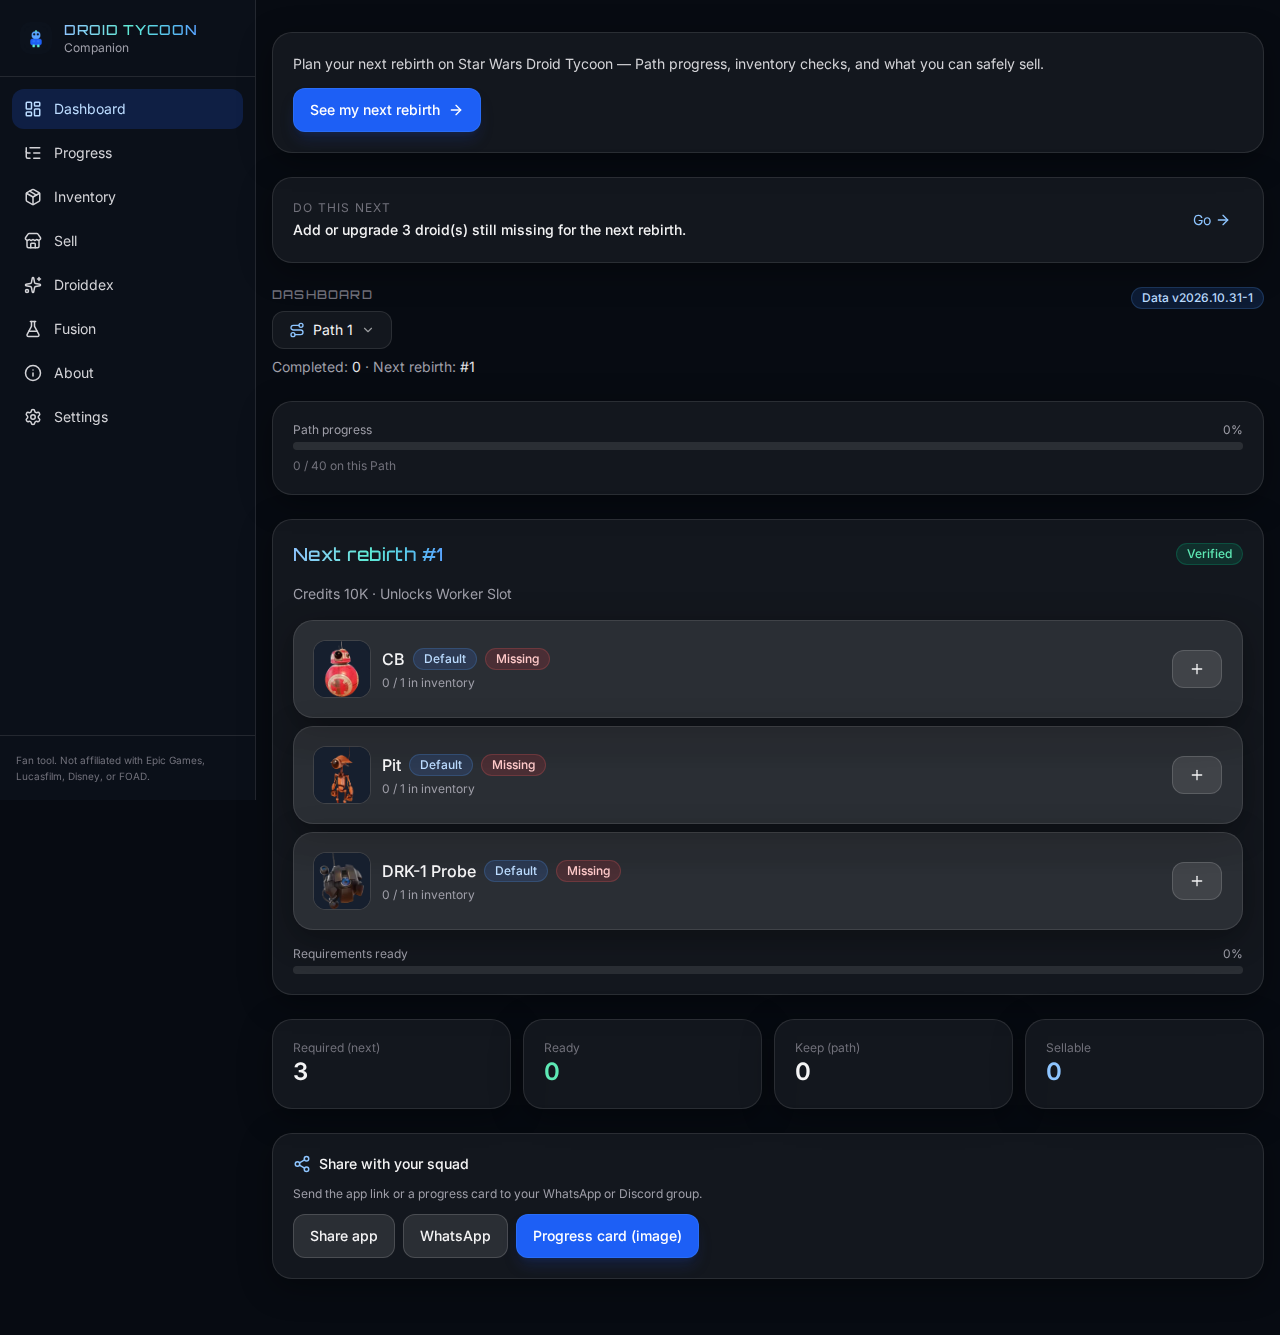
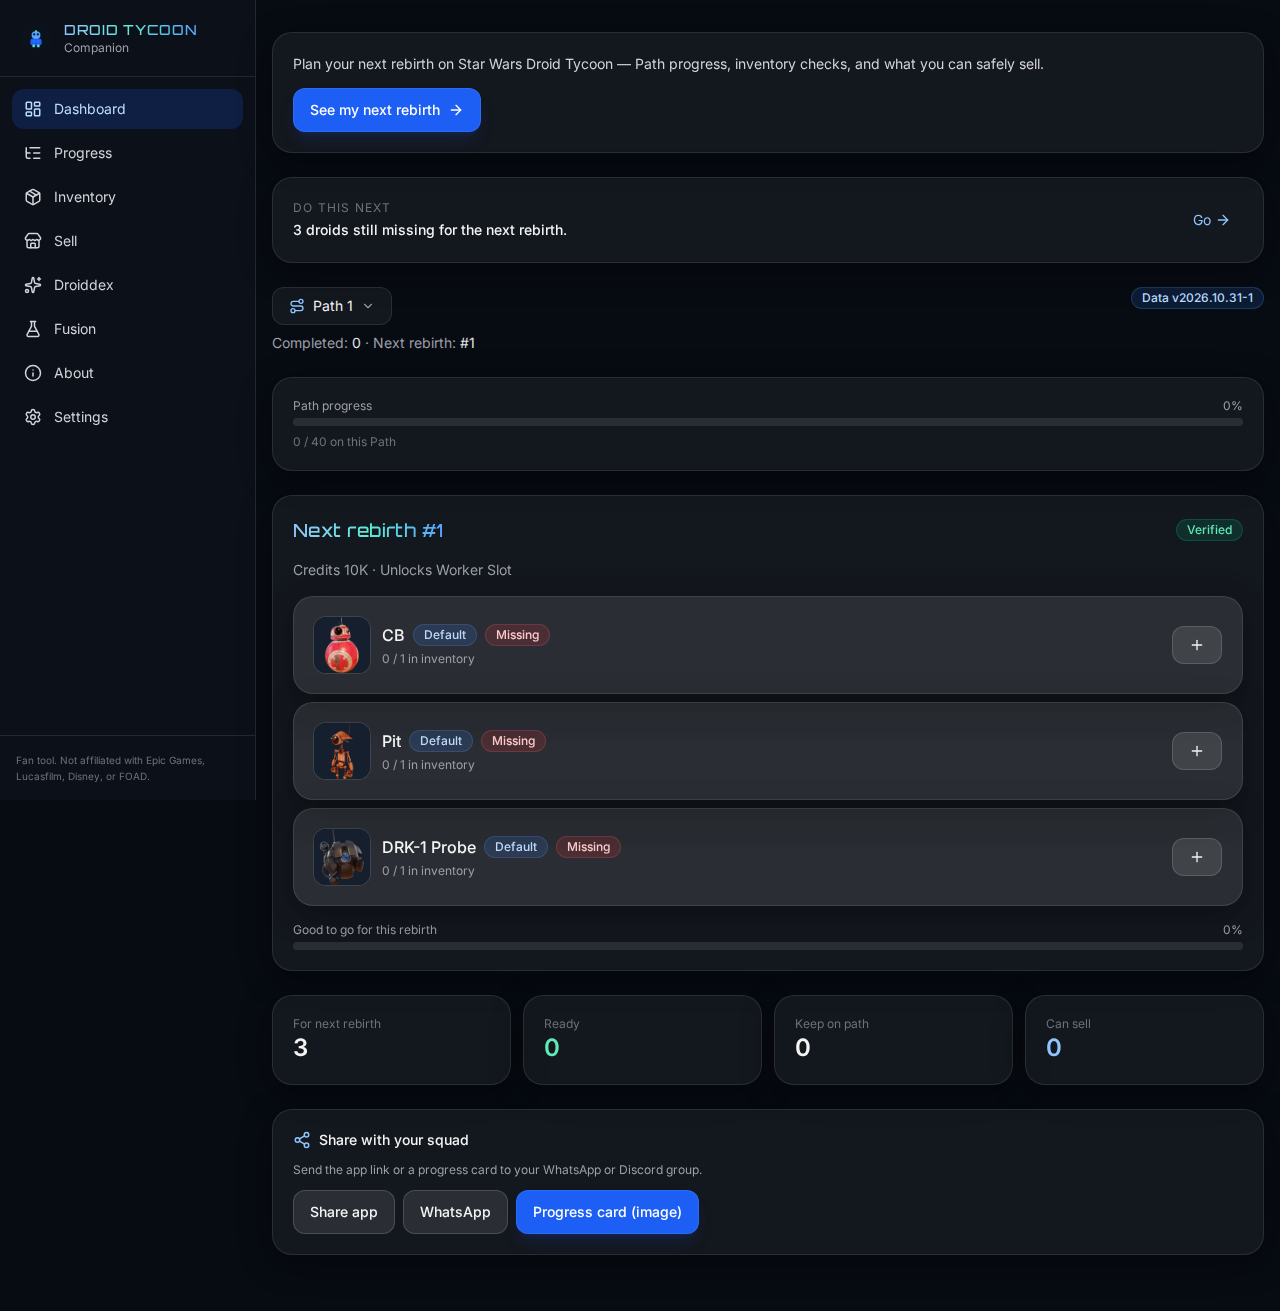
fix(copy): natural pt-BR plurals; share card stat layout
- measureText with correct fonts for rebirth /40 suffix
- Tighter share card footer; bar label and taller track
- Remove duplicate Início on dashboard; i18next plurals for next-step
- Humanized pt-BR/en strings; fix pt-BR smoke assertion

diff --git a/src/lib/shareProgressCard.ts b/src/lib/shareProgressCard.ts
@@ -147,40 +147,66 @@ export async function renderShareProgressCard(data: ShareCardInput): Promise<Blo
     }
   }
 
-  const statY = 620
+  const statY = 600
   const statW = (width - 144) / 3
-  const stats = [
+  const statBaseline = statY + 78
+  const valueFont = '700 64px system-ui, sans-serif'
+  const suffixFont = '500 34px system-ui, sans-serif'
+  const subFont = '24px system-ui, sans-serif'
+
+  const statDefs = [
     {
-      value: `${data.completedOnPath}`,
-      sub: isPt ? 'rebirths ok' : 'rebirths done',
-      suffix: '/40',
+      kind: 'rebirth' as const,
+      sub: isPt ? 'rebirths feitos' : 'rebirths done',
     },
-    { value: `${Math.round(pathPct)}%`, sub: isPt ? 'do Path' : 'path' },
-    { value: `${invCount}`, sub: isPt ? 'droids no inv.' : 'droids tracked' },
+    {
+      kind: 'pct' as const,
+      value: `${Math.round(pathPct)}%`,
+      sub: isPt ? 'progresso do Path' : 'path progress',
+    },
+    {
+      kind: 'inv' as const,
+      value: `${invCount}`,
+      sub: isPt ? 'droids no inventário' : 'droids in inventory',
+    },
   ]
 
-  stats.forEach((s, i) => {
+  statDefs.forEach((s, i) => {
     const x = 72 + i * statW
     ctx.fillStyle = 'rgba(255,255,255,0.04)'
-    roundRect(ctx, x, statY, statW - 16, 140, 16)
+    roundRect(ctx, x, statY, statW - 16, 150, 16)
     ctx.fill()
-    ctx.fillStyle = '#5eead4'
-    ctx.font = '700 64px system-ui, sans-serif'
-    ctx.fillText(s.value, x + 20, statY + 72)
-    if (s.suffix) {
+
+    const padX = x + 20
+    if (s.kind === 'rebirth') {
+      const value = String(data.completedOnPath)
+      const suffix = '/40'
+      ctx.font = valueFont
+      const valueW = ctx.measureText(value).width
+      ctx.fillStyle = '#5eead4'
+      ctx.fillText(value, padX, statBaseline)
+      ctx.font = suffixFont
       ctx.fillStyle = '#71717a'
-      ctx.font = '32px system-ui, sans-serif'
-      ctx.fillText(s.suffix, x + 20 + ctx.measureText(s.value).width + 4, statY + 72)
+      ctx.fillText(suffix, padX + valueW + 10, statBaseline - 4)
+    } else {
+      ctx.font = valueFont
+      ctx.fillStyle = '#5eead4'
+      ctx.fillText(s.value!, padX, statBaseline)
     }
+
     ctx.fillStyle = '#a1a1aa'
-    ctx.font = '24px system-ui, sans-serif'
-    ctx.fillText(s.sub, x + 20, statY + 110)
+    ctx.font = subFont
+    ctx.fillText(s.sub, padX, statY + 128)
   })
 
   const barX = 72
-  const barY = 790
+  const barY = statY + 178
   const barW = width - 144
-  const barH = 24
+  const barH = 32
+  ctx.fillStyle = '#a1a1aa'
+  ctx.font = '26px system-ui, sans-serif'
+  const barLabel = isPt ? 'Progresso neste Path' : 'Progress on this Path'
+  ctx.fillText(barLabel, barX, barY - 14)
   ctx.fillStyle = 'rgba(255,255,255,0.1)'
   roundRect(ctx, barX, barY, barW, barH, 12)
   ctx.fill()
@@ -195,15 +221,14 @@ export async function renderShareProgressCard(data: ShareCardInput): Promise<Blo
   }
 
   ctx.fillStyle = '#71717a'
-  ctx.font = '22px system-ui, sans-serif'
-  const footer1 = 'dthelper.kayooliveira.com'
-  ctx.fillText(footer1, 72, height - 120)
+  ctx.font = '24px system-ui, sans-serif'
+  ctx.fillText('dthelper.kayooliveira.com', 72, height - 72)
   ctx.fillStyle = '#52525b'
-  ctx.font = '20px system-ui, sans-serif'
+  ctx.font = '22px system-ui, sans-serif'
   const footer2 = isPt
     ? 'Fan-made · não afiliado à Epic Games'
     : 'Fan-made · not affiliated with Epic Games'
-  ctx.fillText(footer2, 72, height - 88)
+  ctx.fillText(footer2, 72, height - 40)
 
   return new Promise((resolve, reject) => {
     canvas.toBlob((blob) => {

diff --git a/src/pages/DashboardPage.tsx b/src/pages/DashboardPage.tsx
@@ -71,7 +71,13 @@ export function DashboardPage() {
         <GlassCard className="flex flex-wrap items-center justify-between gap-3">
           <div>
             <p className="text-xs uppercase tracking-widest text-zinc-500">{t('dashboard.nextStepLabel')}</p>
-            <p className="text-sm font-medium mt-1">{t(nextStepKey, { missing, sellable: sell.sellable })}</p>
+            <p className="text-sm font-medium mt-1">
+              {nextStepKey === 'dashboard.nextStepInventory'
+                ? t('dashboard.nextStepInventory', { count: missing })
+                : nextStepKey === 'dashboard.nextStepSell'
+                  ? t('dashboard.nextStepSell', { count: sell.sellable })
+                  : t(nextStepKey)}
+            </p>
           </div>
           <Link
             to={nextStepHref}
@@ -85,7 +91,6 @@ export function DashboardPage() {
 
       <div className="flex flex-wrap items-start justify-between gap-3">
         <div className="space-y-2 min-w-0">
-          <h1 className="text-xs uppercase tracking-widest text-zinc-500 font-display">{t('dashboard.title')}</h1>
           <div className="flex flex-wrap items-center gap-2">
             <PathProgressSwitcher />
           </div>

diff --git a/e2e/smoke.spec.ts b/e2e/smoke.spec.ts
@@ -35,6 +35,6 @@ test('pt-BR locale via browser language', async ({ browser }) => {
   await page.evaluate(() => localStorage.clear())
   await page.reload()
   await page.getByTestId('onboarding-skip').click()
-  await expect(page.getByRole('heading', { name: 'Início' }).first()).toBeVisible({ timeout: 15000 })
+  await expect(page.getByText('Próximo passo')).toBeVisible({ timeout: 15000 })
   await context.close()
 })

diff --git a/src/i18n/index.ts b/src/i18n/index.ts
@@ -20,6 +20,7 @@ export function initI18n(locale: AppLocale): typeof i18n {
     lng: locale,
     fallbackLng: 'en',
     interpolation: { escapeValue: false },
+    pluralSeparator: '_',
   })
 
   return i18n
